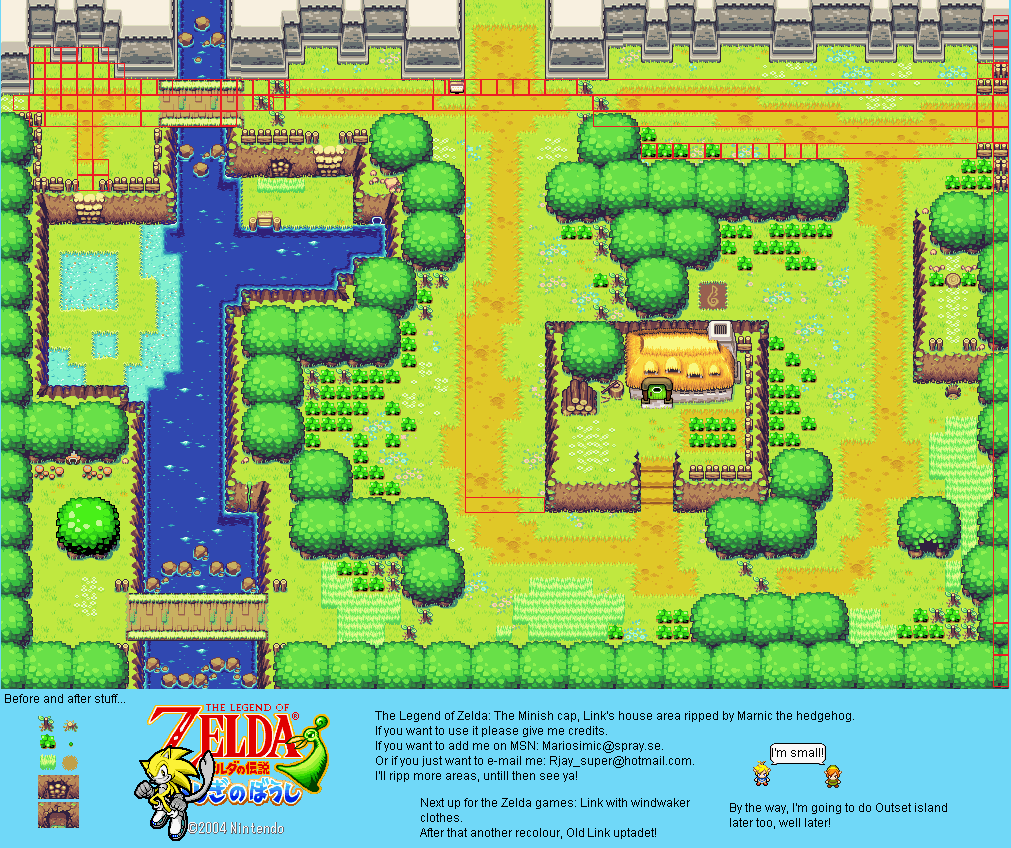
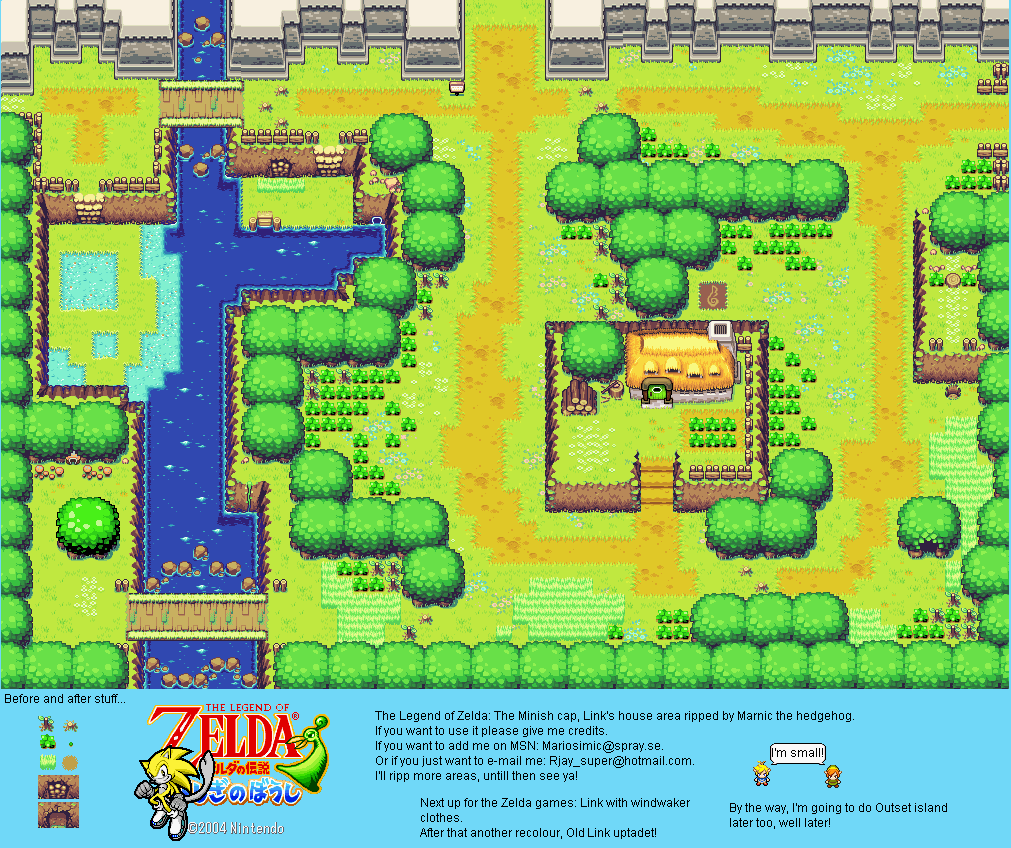
Added texture's parametrization
Now the loaded texture can be parametrized to change the overlayed grid
. The parameters can be changed at any time and the grid will resize

diff --git a/tools/windows/Project/src/main.cpp b/tools/windows/Project/src/main.cpp
@@ -22,12 +22,59 @@ double fMagnifyingZoom = 0.0f;
 double fReducingZoom = 0.0f;
 elm::vector<Button> vButtons;
 byte* pGridPtr = nullptr;
-bool bDrawGrid = true;
+uint32 uGridWidth = 0;
+uint32 uGridHeight = 0;
+bool bDrawGrid = false;
 sf::Font cFont;
 sf::Text cDebugText;
 sf::RectangleShape cSelectedTile;
 bool bIsTileSelected = false;
 uint32 uTileSize = 16;
+sf::Texture cGridTexture;
+sf::Sprite cGridSprite;
+Point sGridPosition;
+
+void createGrid(uint32 uBeginX, uint32 uBeginY, uint32 uWidth, uint32 uHeight)
+{
+  if (pGridPtr != nullptr)
+  {
+    free(pGridPtr);
+  }
+
+  pGridPtr = (byte*)malloc((uWidth - uBeginX + 1) * (uHeight - uBeginY + 1) * 4);
+  memset(pGridPtr, 0, (uWidth - uBeginX + 1) * (uHeight - uBeginY + 1) * 4);
+
+  for (uint32 i = 0; i < (uHeight - uBeginY + 1); i++)
+  {
+    for (uint32 j = 0; j < (uWidth - uBeginX + 1); j++)
+    {
+      if (j % uTileSize == 0 || i % uTileSize == 0)
+      {
+        uint32 p = (j + (uWidth - uBeginX + 1) * i) * 4;
+        pGridPtr[p + 0] = 255;
+        pGridPtr[p + 1] = 0;
+        pGridPtr[p + 2] = 255;
+        pGridPtr[p + 3] = 32;
+      }
+    }
+  } // for()
+  
+  /* THE PROBLEM MUST BE IN SFML texture OR sprite */ /* FUCKING TRUE */
+  cGridTexture = sf::Texture();
+  cGridTexture.create((uWidth - uBeginX + 1), (uHeight - uBeginY + 1));
+  //byte* pCleanup = (byte*)malloc((uWidth - uBeginX + 1) * (uHeight - uBeginY + 1) * 4);
+  //memset(pCleanup, 0, (uWidth - uBeginX + 1) * (uHeight - uBeginY + 1) * 4);
+  //cGridTexture.update(pCleanup);
+  cGridTexture.update(pGridPtr);
+  //free(pCleanup);
+
+  cGridSprite = sf::Sprite();
+  cGridSprite.setTexture(cGridTexture);
+  sGridPosition.setPos(float(uBeginX), float(uBeginY));
+  cGridSprite.setPosition(sGridPosition.x, sGridPosition.y);
+  
+  bDrawGrid = true;
+}
 
 int main()
 {
@@ -42,11 +89,35 @@ int main()
   cToolPanel.setFillColor(sf::Color(96, 96, 96, 255));
   cToolPanel.setPosition(1000.0f, 0.0f);
 
-  Button cZoomButton(Point(1050.0f, 675.0f), Point(50.0f, 25.0f), "Zoom");
-  vButtons.pushBack(cZoomButton);
+  Button cGridButton(Point(1050.0f, 675.0f), Point(80.0f, 25.0f), "SHOW GRID");
 
-  TextInput cTextInput(sf::FloatRect(1050.0f, 100.0f, 100.0f, 25.0f));
-  std::string cBla = "HOLI";
+  TextInput cXTextInput(sf::FloatRect(1050.0f, 100.0f, 100.0f, 25.0f), 5);
+  TextInput cYTextInput(sf::FloatRect(cXTextInput.m_cDimensions.left + 
+    cXTextInput.m_cDimensions.width + cXTextInput.m_cDimensions.width * 0.2f, 
+    cXTextInput.m_cDimensions.top, 100.0f, 25.0f), 5);
+  TextInput cWidthTextInput(sf::FloatRect(cXTextInput.m_cDimensions.left, 
+    cXTextInput.m_cDimensions.top + cXTextInput.m_cDimensions.height + 
+    cXTextInput.m_cDimensions.height * 0.2, 100.0f, 25.0f), 5);
+  TextInput cHeightTextInput(sf::FloatRect(cYTextInput.m_cDimensions.left, 
+    cYTextInput.m_cDimensions.top + cYTextInput.m_cDimensions.height + 
+    cYTextInput.m_cDimensions.height * 0.2, 100.0f, 25.0f), 5);
+  std::string cXValue = cXTextInput.getString();
+  std::string cYValue = cYTextInput.getString();
+  std::string cWidthValue = cWidthTextInput.getString();
+  std::string cHeightValue = cHeightTextInput.getString();
+
+  sf::Text cWarning;
+  cWarning.setFont(cFont);
+  cWarning.setCharacterSize(20);
+  cWarning.setString("click when all fields are filled");
+  cWarning.setColor(sf::Color::Black);
+  Point cWarningPos(cWidthTextInput.m_cDimensions.left,
+    cWidthTextInput.m_cDimensions.top + cWidthTextInput.m_cDimensions.height +
+    cWidthTextInput.m_cDimensions.height * 0.5f);
+  cWarning.setPosition(cWarningPos.x, cWarningPos.y);
+  
+  Button cTextureParametersButton(Point(uWindowWidth - uWindowWidth * 0.04f, 
+    cWarningPos.y), Point(30.0f, 25.0f), "SET");
 
   if (cFont.loadFromFile("../../../Project/resources/arial.ttf") == false)
   {
@@ -55,27 +126,26 @@ int main()
   cDebugText.setFont(cFont);
   cDebugText.setString("");
   cDebugText.setCharacterSize(25);
-  cDebugText.setPosition(1050.0f, 100.0f);
+  cDebugText.setPosition(1050.0f, 300.0f);
   cDebugText.setColor(sf::Color::Black);
 
-  pGridPtr = (byte*)malloc(uWindowWidth * uWindowHeight * 4);
-  memset(pGridPtr, 0, uWindowWidth * uWindowHeight * 4);
+  //pGridPtr = (byte*)malloc(uWindowWidth * uWindowHeight * 4);
+  //memset(pGridPtr, 0, uWindowWidth * uWindowHeight * 4);
 
-  byte* pAuxPtr = pGridPtr;
-  for (uint32 i = 0; i < uWindowHeight; i++)
-  {
-    for (uint32 j = 0; j < uWindowWidth; j++)
-    {
-      if (j % uTileSize == 0 || i % uTileSize == 0)
-      {
-        uint32 p = (j + uWindowWidth * i) * 4;
-        pAuxPtr[p + 0] = 255;
-        pAuxPtr[p + 1] = 0;
-        pAuxPtr[p + 2] = 255;
-        pAuxPtr[p + 3] = 32;
-      }
-    }
-  }
+  //for (uint32 i = 0; i < uWindowHeight; i++)
+  //{
+  //  for (uint32 j = 0; j < uWindowWidth; j++)
+  //  {
+  //    if (j % uTileSize == 0 || i % uTileSize == 0)
+  //    {
+  //      uint32 p = (j + uWindowWidth * i) * 4;
+  //      pGridPtr[p + 0] = 255;
+  //      pGridPtr[p + 1] = 0;
+  //      pGridPtr[p + 2] = 255;
+  //      pGridPtr[p + 3] = 32;
+  //    }
+  //  }
+  //} // for()
 
   /*for (uint32 i = 0; i < uWindowHeight; i += 16)
   {
@@ -87,13 +157,13 @@ int main()
     memset((pGridPtr + (i * uWindowHeight)), 0x00ff00ff, uWindowHeight * 4);
   }*/
 
-  sf::Texture cGridTexture;
+  /*sf::Texture cGridTexture;
   cGridTexture.create(uWindowWidth, uWindowHeight);
   cGridTexture.update(pGridPtr);
 
   sf::Sprite cGridSprite;
   cGridSprite.setTexture(cGridTexture);
-  cGridSprite.setPosition(0.0f, 0.0f);
+  cGridSprite.setPosition(0.0f, 0.0f);*/
 
   cSelectedTile.setSize(sf::Vector2f(float(uTileSize) + 1.0f, float(uTileSize) + 1.0f));
   cSelectedTile.setFillColor(sf::Color::Transparent);
@@ -176,14 +246,15 @@ int main()
         int iYPos = int(((float(uWindowHeight) - (cView.getSize().y)) / 2.0f) + (sMousePos.y / (uWindowHeight / cView.getSize().y)));
 
         // indices in the collision matix
-        uint32 uTileXIndex = (iXPos - int(sImagePos.x)) / uTileSize;
-        uint32 uTileYIndex = (iYPos - int(sImagePos.y)) / uTileSize;
+        int uTileXIndex = (iXPos - int(sImagePos.x)) / int(uTileSize);
+        int uTileYIndex = (iYPos - int(sImagePos.y)) / int(uTileSize);
         
         cDebugText.setString(std::to_string(sImagePos.x) + " , " + std::to_string(sImagePos.y) + "\n\n" + 
           std::to_string(iXPos - int(sImagePos.x)) + " , " + std::to_string(iYPos - int(sImagePos.y)) + "\n\n" + 
-          std::to_string(uTileXIndex) + " , " + std::to_string(uTileYIndex) + "\n");
+          std::to_string(uTileXIndex) + " , " + std::to_string(uTileYIndex) + "\n\n" + 
+          std::to_string(iXPos) + " , " + std::to_string(iYPos) + "\n\n");
 
-        cSelectedTile.setPosition(uTileXIndex * uTileSize, uTileYIndex * uTileSize);
+        cSelectedTile.setPosition(((uTileXIndex * uTileSize) + sImagePos.x), (uTileYIndex * uTileSize) + sImagePos.y);
         bIsTileSelected = true;
       }
     }
@@ -196,23 +267,41 @@ int main()
       }
     }
 
-    /*for (uint32 i = 0; i < vButtons.size(); i++)
+    if (cGridButton.isClicked(&cWindow) == true)
     {
-      vButtons[i].isClicked();
-    }*/
-    if (cZoomButton.isClicked(&cWindow) == true)
-    {
-      //bDrawGrid = !bDrawGrid;
-      cTextInput.setString(cBla);
+      bDrawGrid = !bDrawGrid;
     }
-    cTextInput.isClicked(&cWindow);
-    cTextInput.processInput(&cWindow);
+    if (cTextureParametersButton.isClicked(&cWindow) == true)
+    {
+      cXValue = cXTextInput.getString();
+      cYValue = cYTextInput.getString();
+      cWidthValue = cWidthTextInput.getString();
+      cHeightValue = cHeightTextInput.getString();
+
+      uGridWidth = std::atoi(cWidthValue.c_str());
+      uGridHeight = std::atoi(cHeightValue.c_str());
+
+      if (uGridWidth > 0 && uGridHeight)
+      {
+        createGrid(std::atoi(cXValue.c_str()), std::atoi(cYValue.c_str()), 
+          uGridWidth, uGridHeight);
+      }
+    }
+    cXTextInput.isClicked(&cWindow);
+    cXTextInput.processInput(&cWindow);
+    cYTextInput.isClicked(&cWindow);
+    cYTextInput.processInput(&cWindow);
+    cWidthTextInput.isClicked(&cWindow);
+    cWidthTextInput.processInput(&cWindow);
+    cHeightTextInput.isClicked(&cWindow);
+    cHeightTextInput.processInput(&cWindow);
     // [INPUT]
 
 
     // [UPDATE]
     cBackgroundSprite.setPosition(sImagePos.x, sImagePos.y);
-    cGridSprite.setPosition(cBackgroundSprite.getPosition());
+    cGridSprite.setPosition(sGridPosition.x + cBackgroundSprite.getPosition().x, 
+      sGridPosition.y + cBackgroundSprite.getPosition().y);
     // [UPDATE]
     
 
@@ -228,17 +317,23 @@ int main()
     {
       cWindow.draw(cSelectedTile);
     }
-
     cWindow.setView(cWindow.getDefaultView());
     //cWindow.clear();
+    /*if (bIsTileSelected == true)
+    {
+      cWindow.draw(cSelectedTile);
+    }*/
     cWindow.draw(cToolPanel);
     cWindow.draw(cDebugText);
 
-    for (uint32 i = 0; i < vButtons.size(); i++)
-    {
-      vButtons[i].draw(&cWindow);
-    }
-    cTextInput.draw(&cWindow);
+    cGridButton.draw(&cWindow);
+    cXTextInput.draw(&cWindow);
+    cYTextInput.draw(&cWindow);
+    cWidthTextInput.draw(&cWindow);
+    cHeightTextInput.draw(&cWindow);
+    cWindow.draw(cWarning);
+    cTextureParametersButton.draw(&cWindow);
+
     cWindow.display();
     // [DRAW]
   }

diff --git a/tools/windows/Project/include/misc.h b/tools/windows/Project/include/misc.h
@@ -127,7 +127,6 @@ public:
         if (sMousePos.x > m_sPosition.x && sMousePos.x < m_sPosition.x + m_sSize.x
           && sMousePos.y > m_sPosition.y && sMousePos.y < m_sPosition.y + m_sSize.y)
         {
-          printf("Button clicked\n");
           return true;
         } else
         {
@@ -162,7 +161,7 @@ public:
 class TextInput
 {
 public:
-  TextInput(const sf::FloatRect &sDimensions)
+  TextInput(const sf::FloatRect &sDimensions, uint32 uStringMaxLenght)
   {
     m_cString = "";
     m_fBlinkTime = 0.5f;
@@ -172,6 +171,7 @@ public:
     m_fBlinkAccTime = 0.0f;
     m_fCursorYOffset = sDimensions.top + sDimensions.height * 0.05f;
     m_uCursorIndex = 0;
+    m_uStringMaxLenght = uStringMaxLenght;
     m_byAlphaLerp = 255;
     m_bHasFocus = false;
     m_bBlinkDown = true;
@@ -500,9 +500,12 @@ public:
               cWord -= 32;
             }
 
-            m_cString.insert(m_uCursorIndex, 1, cWord);
-            m_cText.setString(m_cString);
-            m_uCursorIndex++;
+            if (m_cString.size() < m_uStringMaxLenght)
+            {
+              m_cString.insert(m_uCursorIndex, 1, cWord);
+              m_cText.setString(m_cString);
+              m_uCursorIndex++;
+            }
           }
 
           // Update cursor
@@ -567,6 +570,7 @@ public:
   float m_fBlinkAccTime;
   float m_fCursorYOffset;
   uint32 m_uCursorIndex;
+  uint32 m_uStringMaxLenght;
   byte m_byAlphaLerp;
   bool m_bHasFocus;
   bool m_bBlinkDown;
